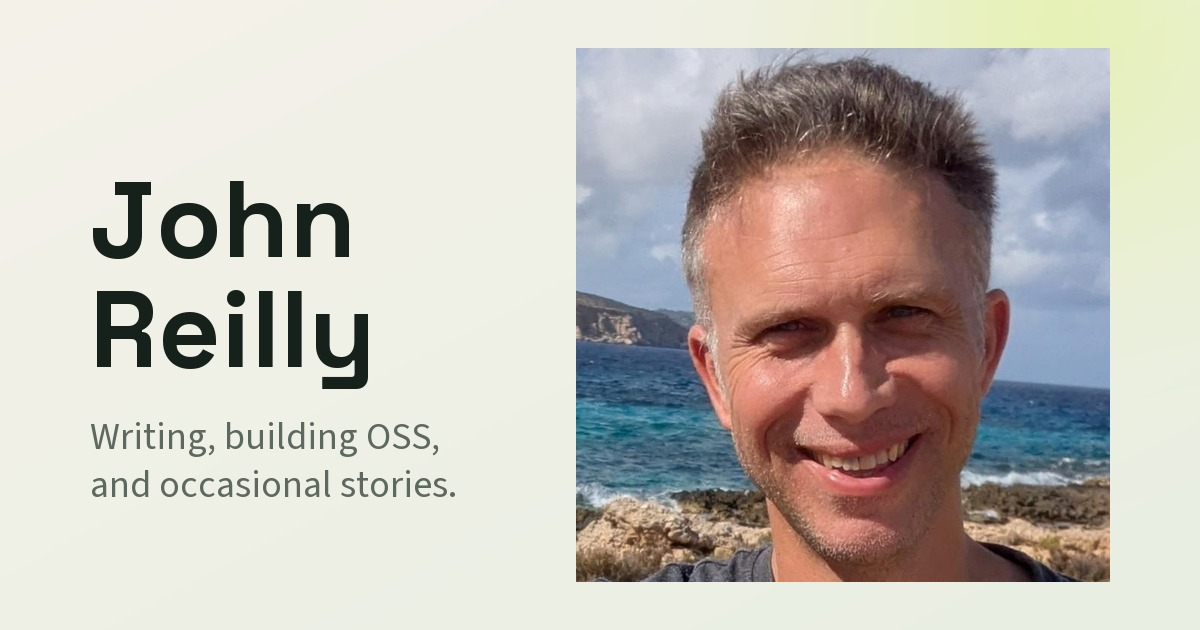
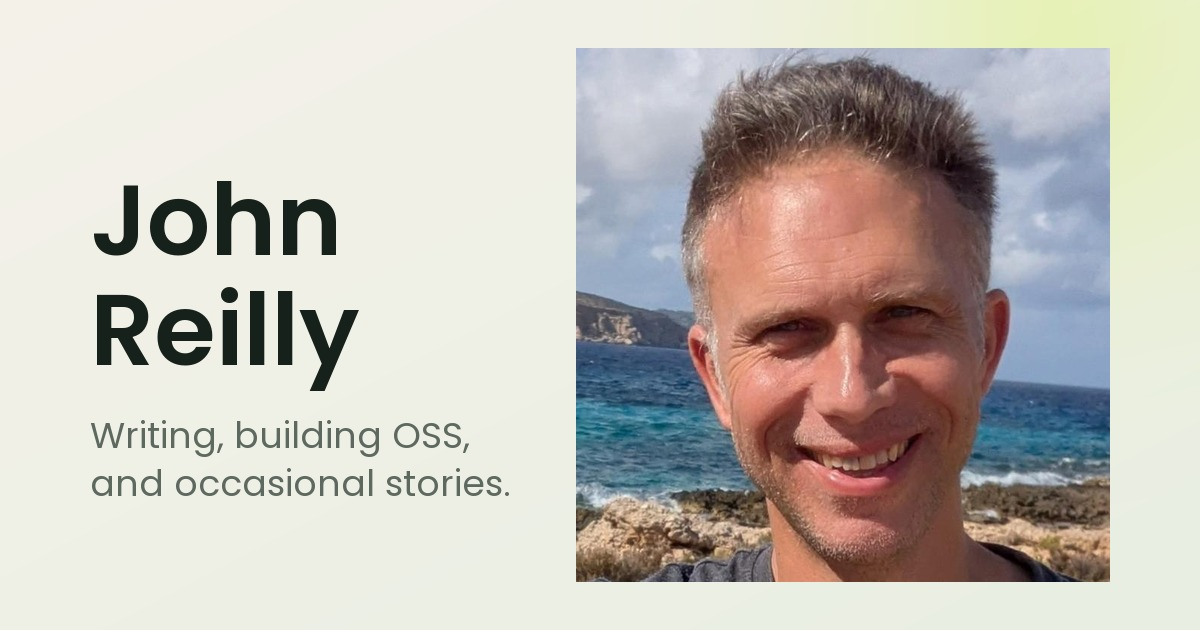
feat: font poppins

diff --git a/index.html b/index.html
@@ -44,7 +44,7 @@
 			}
 		}
 		</script>
-		<link href="https://fonts.googleapis.com/css2?family=Space+Grotesk:wght@400;500;600;700&family=Source+Sans+3:wght@400;600&display=swap" rel="stylesheet">
+		<link href="https://fonts.googleapis.com/css2?family=Poppins:wght@400;500;600;700&display=swap" rel="stylesheet">
         <link rel="icon" href="/favicon.svg" type="image/svg+xml">
         <link rel="alternate icon" href="/favicon.ico">
 		<style>
@@ -68,7 +68,7 @@
 				background:
 					radial-gradient(circle at 88% 8%, rgba(216, 243, 107, 0.7), transparent 25rem),
 					linear-gradient(135deg, #f4f1e9 0%, #e8eee2 100%);
-				font-family: "Source Sans 3", Georgia, serif;
+				font-family: "Poppins", sans-serif;
 			}
 
 			main {
@@ -89,7 +89,7 @@
 			h1 {
 				max-width: 11ch;
 				margin: 0;
-				font: 600 clamp(3.75rem, 11vw, 8.5rem)/0.87 "Space Grotesk", sans-serif;
+				font: 600 clamp(3.75rem, 11vw, 8.5rem)/0.87 "Poppins", sans-serif;
 				letter-spacing: -0.06em;
 			}
 
@@ -137,12 +137,12 @@
 			}
 
 			.link-label {
-				font: 600 clamp(1.25rem, 2.5vw, 1.7rem)/1.1 "Space Grotesk", sans-serif;
+				font: 600 clamp(1.25rem, 2.5vw, 1.7rem)/1.1 "Poppins", sans-serif;
 			}
 
 			.arrow {
 				align-self: flex-end;
-				font: 400 2.2rem/0.7 "Space Grotesk", sans-serif;
+				font: 400 2.2rem/0.7 "Poppins", sans-serif;
 			}
 
 			footer {
